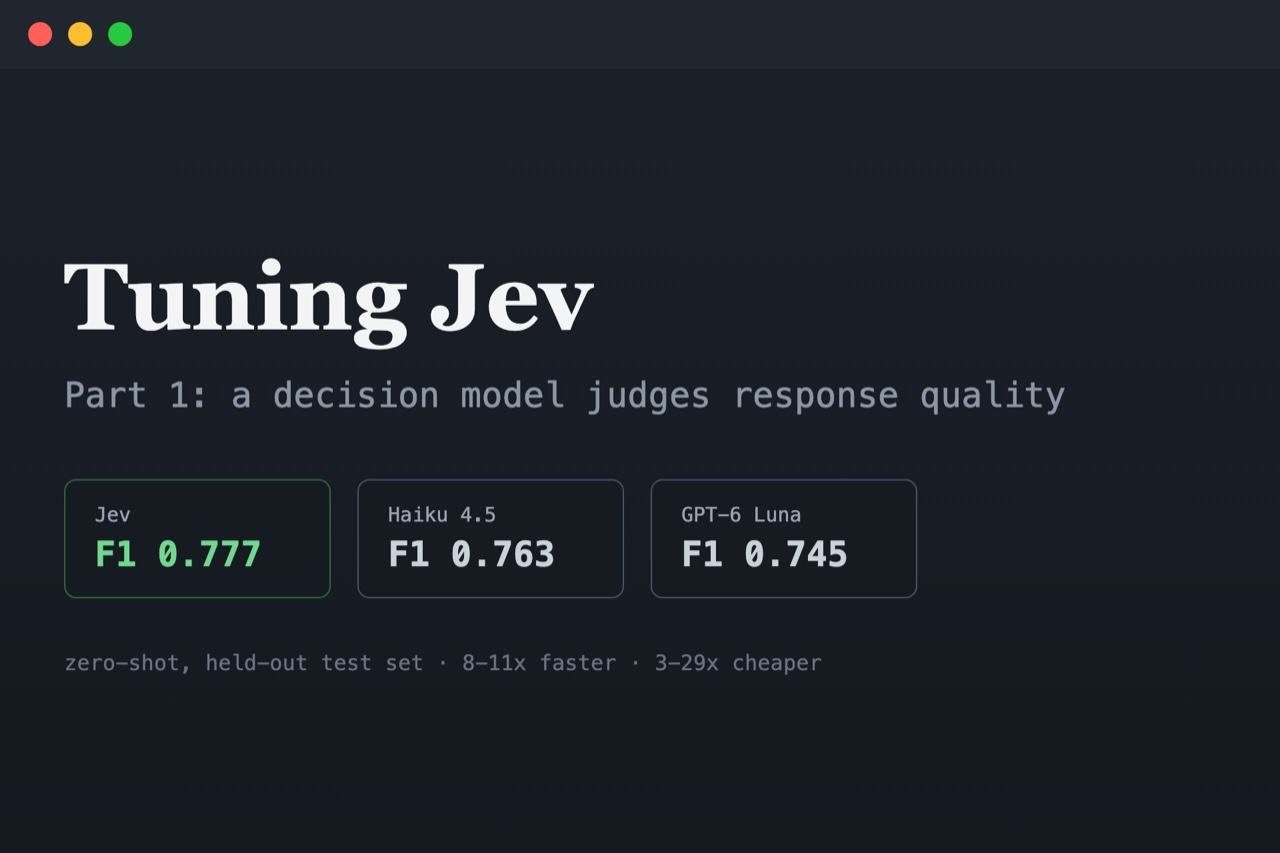
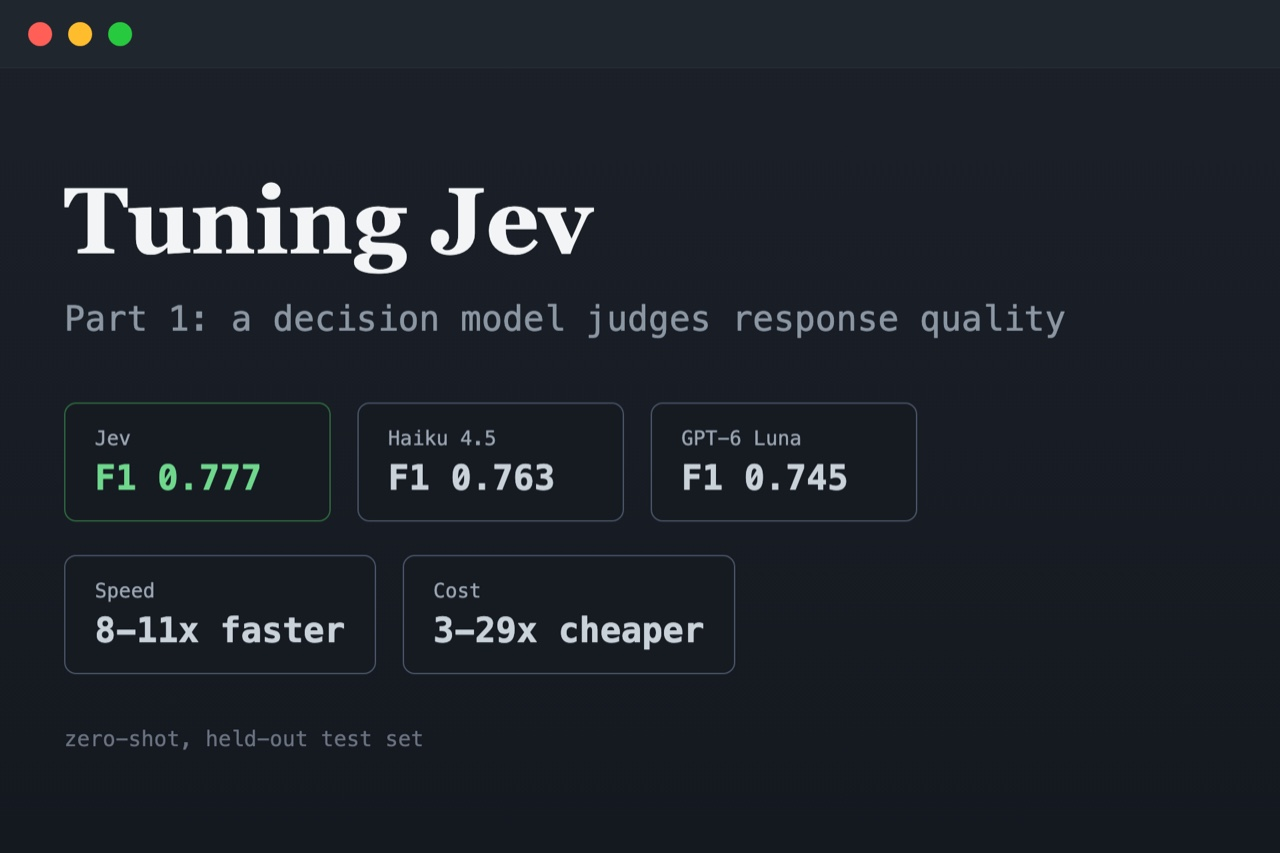
Rename Caveats to Takeaways and Caveats, add speed/cost metric cards to cover image

Changed region(s): [[0.0312, 0.4267, 0.8438, 0.7925], [0.0312, 0.2134, 0.8438, 0.4267], [0.0625, 0.8535, 0.3438, 0.8839]]

diff --git a/docs/posts/jev-quality-judges/index.html b/docs/posts/jev-quality-judges/index.html
@@ -252,7 +252,7 @@ cookieconsent.run({
   <li><a href="#consistency-confidence-isnt-the-same-as-being-right-twice" id="toc-consistency-confidence-isnt-the-same-as-being-right-twice" class="nav-link" data-scroll-target="#consistency-confidence-isnt-the-same-as-being-right-twice">Consistency: confidence isn’t the same as being right twice</a></li>
   <li><a href="#the-hybrid-escalating-to-a-reasoning-model-when-jev-flags-something" id="toc-the-hybrid-escalating-to-a-reasoning-model-when-jev-flags-something" class="nav-link" data-scroll-target="#the-hybrid-escalating-to-a-reasoning-model-when-jev-flags-something">The hybrid: escalating to a reasoning model when Jev flags something</a></li>
   <li><a href="#a-caveat-i-didnt-expect-the-ground-truth-disagrees-with-the-reasoning-model-too" id="toc-a-caveat-i-didnt-expect-the-ground-truth-disagrees-with-the-reasoning-model-too" class="nav-link" data-scroll-target="#a-caveat-i-didnt-expect-the-ground-truth-disagrees-with-the-reasoning-model-too">A caveat I didn’t expect: the ground truth disagrees with the reasoning model too</a></li>
-  <li><a href="#caveats" id="toc-caveats" class="nav-link" data-scroll-target="#caveats">Caveats</a></li>
+  <li><a href="#takeaways-and-caveats" id="toc-takeaways-and-caveats" class="nav-link" data-scroll-target="#takeaways-and-caveats">Takeaways and Caveats</a></li>
   </ul>
 </nav>
 </nav>
@@ -608,8 +608,8 @@ REASON: The response is mostly easy to follow, but it uses terms like
 <p>Sonnet: “contains several casual colloquialisms… that undermine the professional tone.”</p>
 <p>Feedback-Collection’s scores were generated by GPT-4. A newer model disagreeing with an older one’s judgment isn’t a bug I can fix with better instructions, it’s the actual, unresolved problem with building any quality benchmark on LLM-generated labels: the ground truth has an opinion too, and that opinion can go stale. This escalation prompt stayed untuned: closing the gap would mean optimizing Sonnet toward matching GPT-4’s specific judgments, not toward being more correct, and those are different targets.</p>
 </section>
-<section id="caveats" class="level1">
-<h1>Caveats</h1>
+<section id="takeaways-and-caveats" class="level1">
+<h1>Takeaways and Caveats</h1>
 <ul>
 <li><strong>Ground truth generated by an LLM has an LLM’s opinions baked in.</strong> Feedback-Collection’s scores came from GPT-4. A stronger, more recent model disagreeing with those scores isn’t necessarily the stronger model being wrong; it may be catching real shortcomings the original labeling missed, or it may be pickier than the standard the dataset actually wants. I didn’t try to resolve which, and that’s a real limit on what “accuracy against this test set” can claim.</li>
 <li><strong>The first tuning attempt made Jev worse, not better.</strong> Rewriting <code>criteria</code> text to target a real error pattern traded precision for recall hard enough to drop overall accuracy. Tuning loops don’t reliably land on the first try.</li>

diff --git a/docs/index.html b/docs/index.html
@@ -233,7 +233,7 @@ cookieconsent.run({
 
 <div class="quarto-listing quarto-listing-container-grid" id="listing-listing">
 <div class="list grid quarto-listing-cols-3">
-<div class="g-col-1" data-index="0" data-categories="code,tools" data-listing-date-sort="1790665200000" data-listing-file-modified-sort="1790698296643" data-listing-date-modified-sort="NaN" data-listing-reading-time-sort="23" data-listing-word-count-sort="4456">
+<div class="g-col-1" data-index="0" data-categories="code,tools" data-listing-date-sort="1790665200000" data-listing-file-modified-sort="1790700290687" data-listing-date-modified-sort="NaN" data-listing-reading-time-sort="23" data-listing-word-count-sort="4458">
 <a href="./posts/jev-quality-judges/index.html" class="quarto-grid-link">
 <div class="quarto-grid-item card h-100 card-left">
 <p class="card-img-top">
